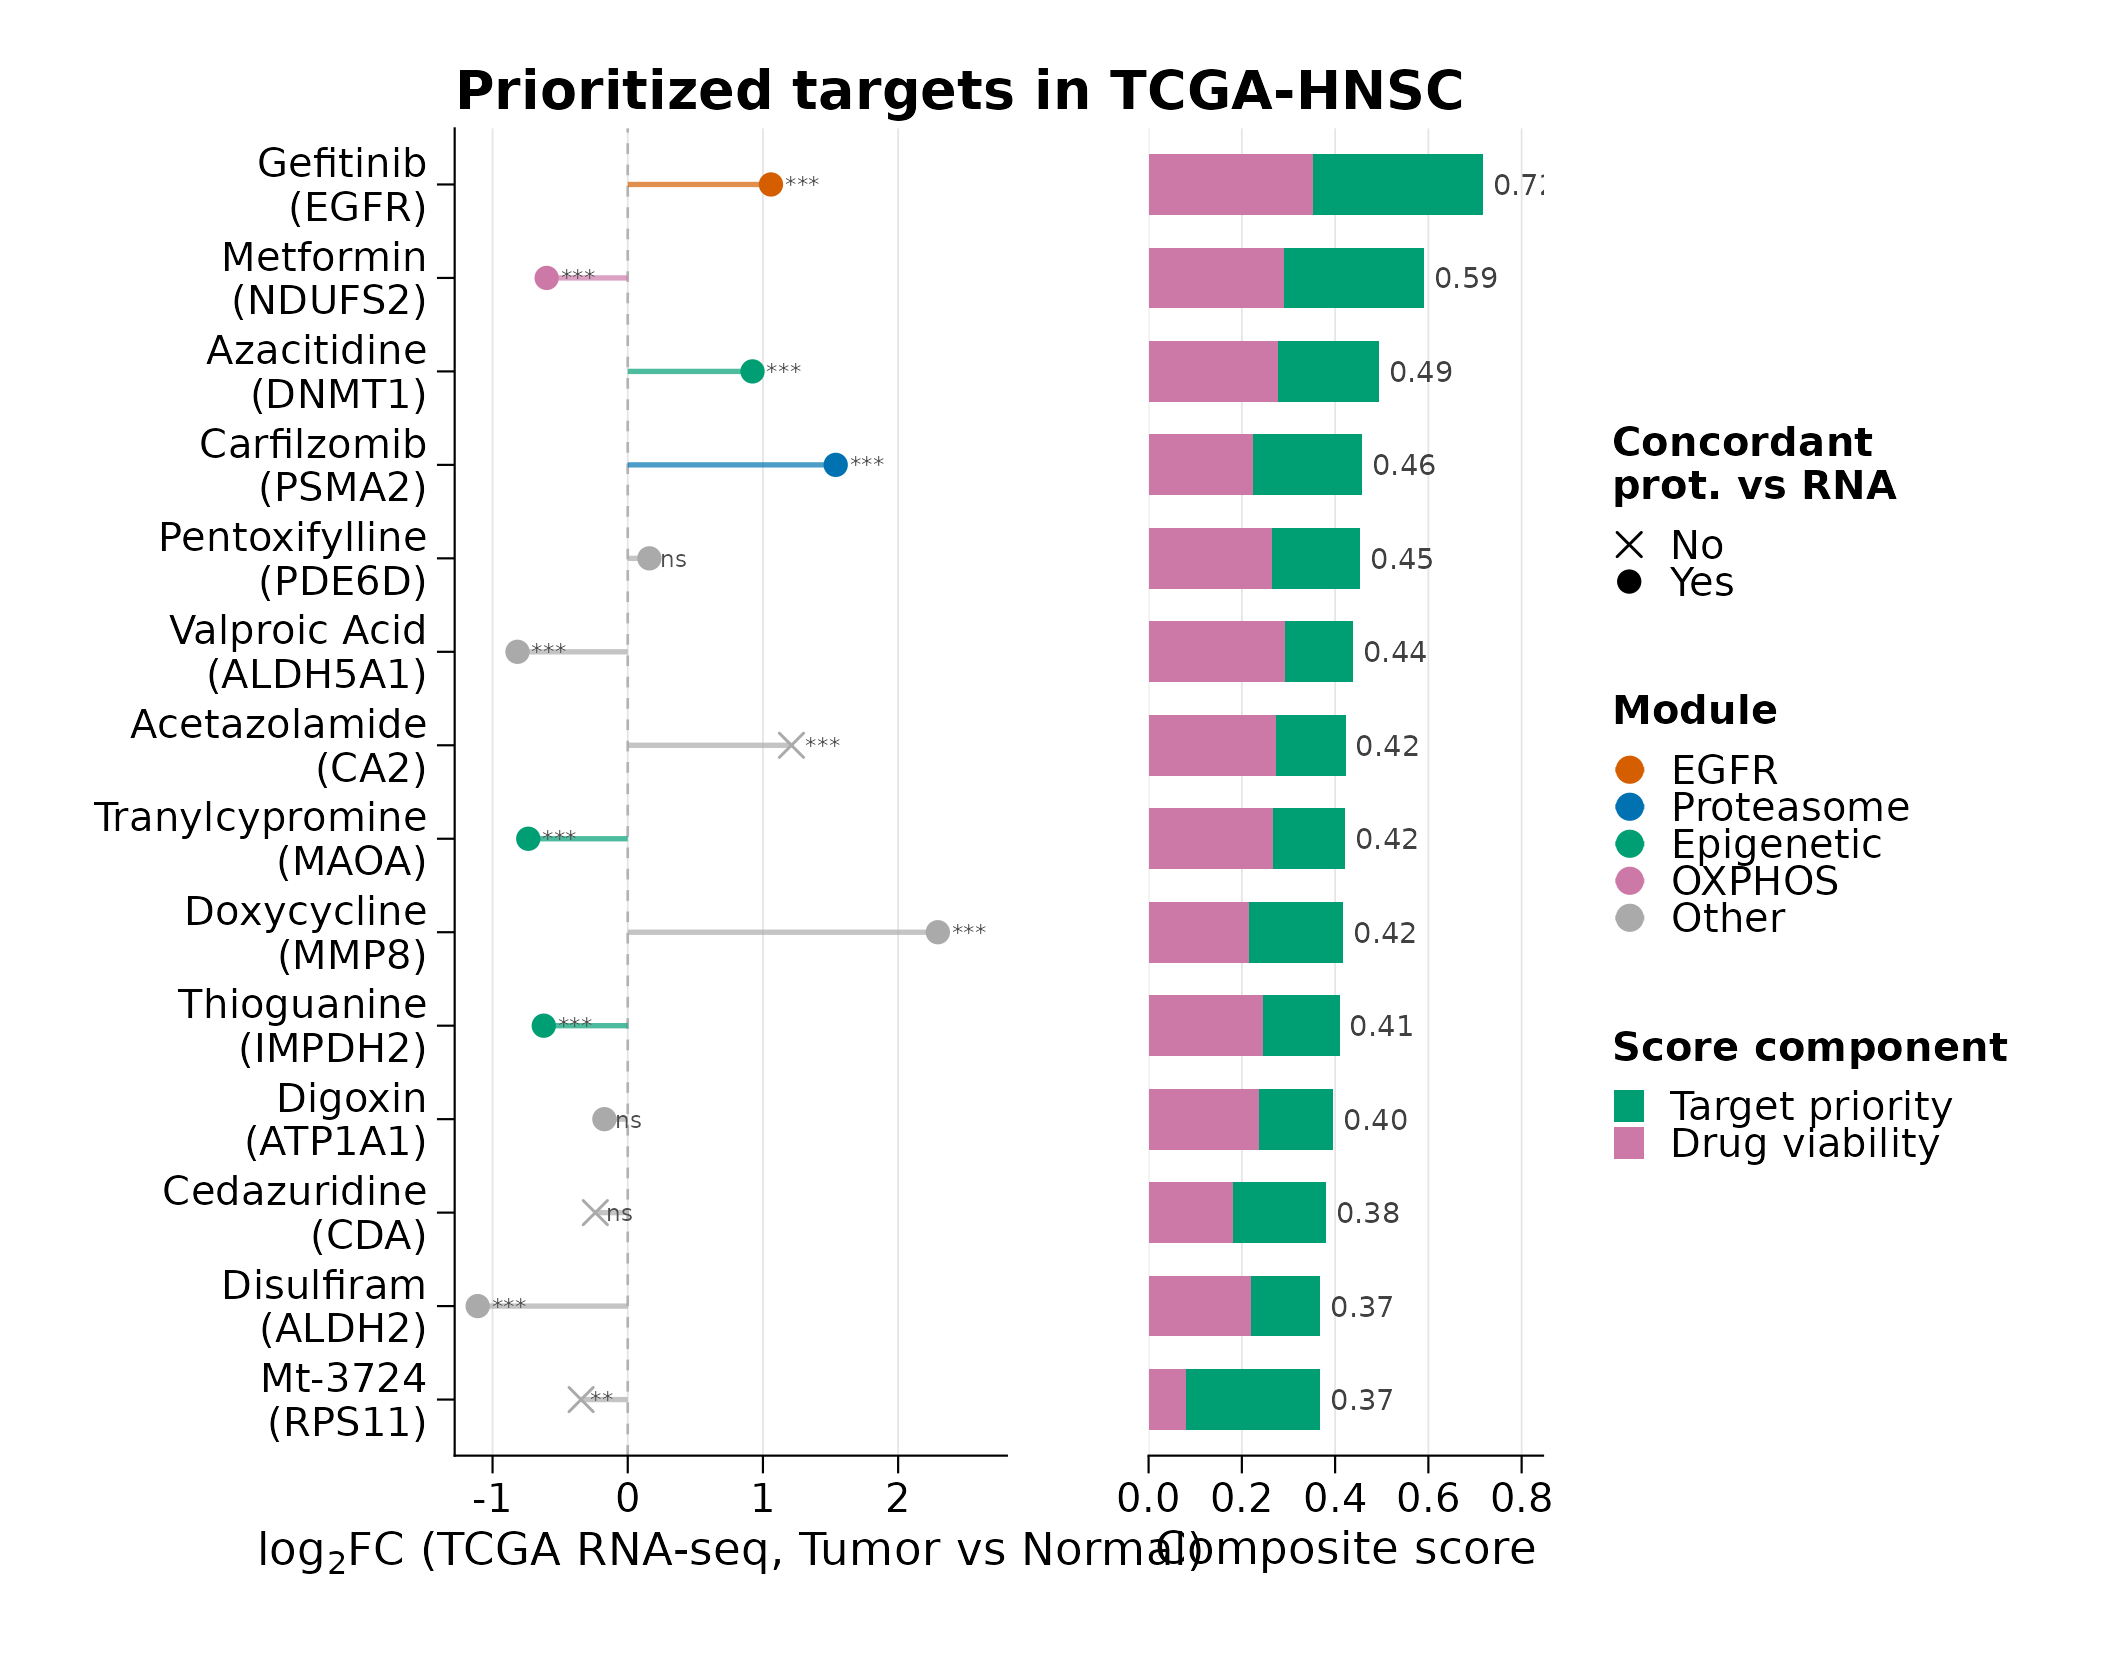
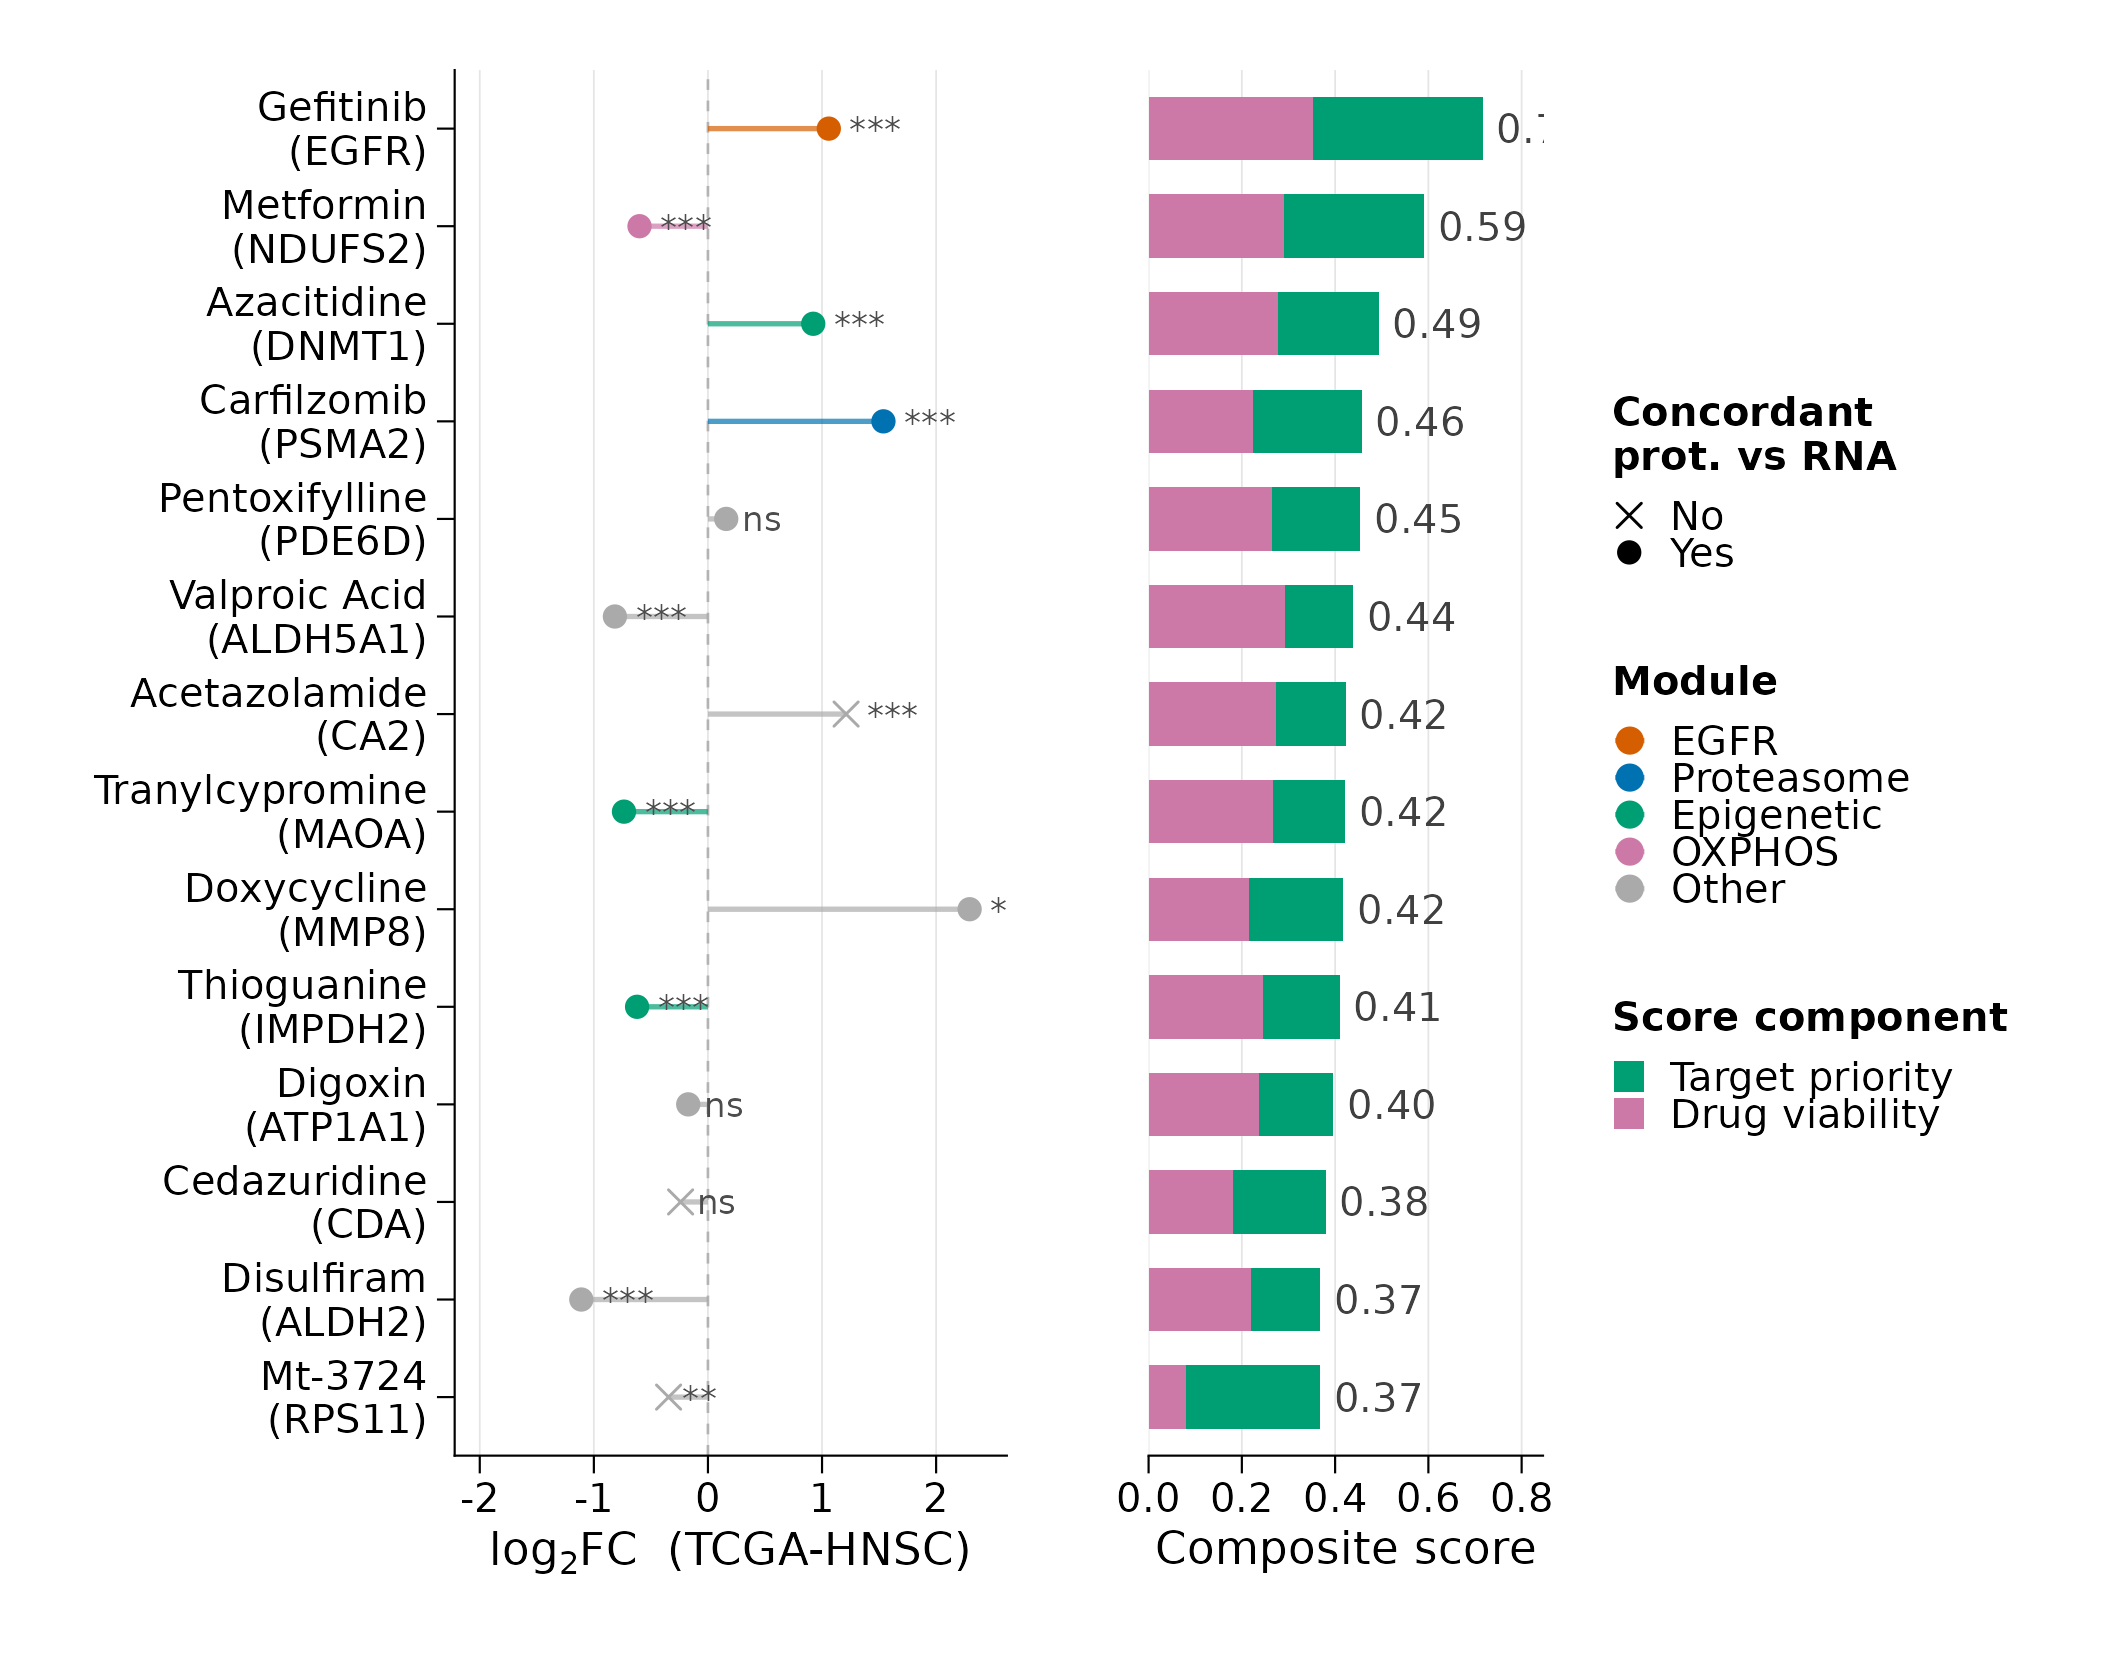
feat(Fig6): layout A+B arriba | C abajo — ancho completo para dianas
- 17i: cambia de 3 columnas a design 2×2 (scatter A/B fila1, lollipop C fila2);
  340×280 mm; elimina scale_y_discrete expand (ya no necesario con layout vertical)
- 16: elimina expansion(add=c(1.2,1.2)) del eje discreto (hack de alineación anterior)
- Paneles regenerados: Fig6A_cptac, Fig6B_tcga, Fig6C_targets_unified, Fig6_multipanel
- METHODS.md: actualiza nota de Fig6 (3 paneles, CPTAC + TCGA + targets)
- Cierra el ciclo de figuras; pendiente: captions/figure legends

diff --git a/docs/METHODS.md b/docs/METHODS.md
@@ -1,6 +1,6 @@
 # Methods — HNSCC Drug Repurposing Pipeline
 
-*Last updated: 2026-06-13 — Fig6 layout (400 × 180 mm), axis labels and font sizes aligned to double-col preset; original content generated by 14_methods_summary.R on 2026-06-11*
+*Last updated: 2026-06-13 — CPTAC-HNSCC proteome/proteome external validation added (16b+16c); Fig6 now 3 panels (A=CPTAC, B=TCGA, C=targets unified); original content generated by 14_methods_summary.R on 2026-06-11*
 
 ---
 